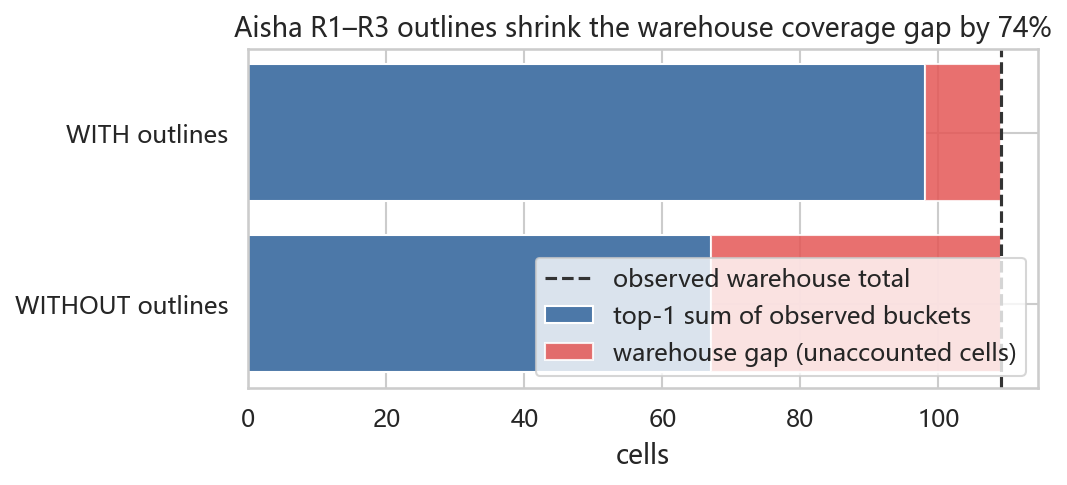
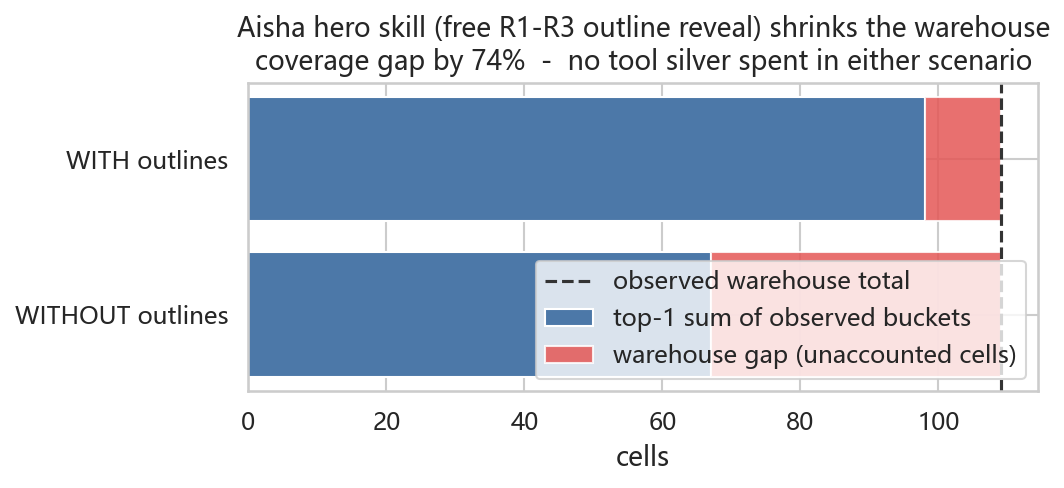
C-9: notebook 03 outline clarification + tool-price override (warehouse 55k)
Three small user-feedback follow-ups for the 2026-05-15 milestone:

1. Notebook 03 was ambiguous about what "outlines" means - the user
   initially read the chart as "scan tools help". Add a clarifying
   markdown cell and rewrite the chart title:
     "Aisha hero skill (free R1-R3 outline reveal) shrinks the warehouse
      coverage gap by 74% - no tool silver spent in either scenario"
   Re-executed via nbconvert; updated fig_outline_coverage_gap.png.

2. User-confirmed 总仓储空间 silver price is 55_000, not the rough 50k
   gold-tier placeholder. Introduce TOOL_PRICE_OVERRIDES dict for
   tool-name-specific prices and a tool_price() helper that checks
   overrides before falling back to the rarity tier. New test pins
   the 55k value and the override-vs-fallback behavior.

3. Map-fields scope cut: user confirmed that map readings like
   "9件均价 / 几件总价 / random highest-cells item / highest-quality item"
   are too ambiguous to feed into the inference engine. We won't add
   support for those - the existing QualityBucketObs fields
   (count / avg_cells / total_cells / value_sum / value_range / huge_band)
   already cover all useful map readings, just typed in by the player.

Also documents the Phase 2 ROI metric decision: value-error (silver
saved per silver spent on the tool) as primary, cell-error as
diagnostic. Matches the user's "warehouse value accuracy is the goal"
priority.

Test count: 150 -> 151 passed (+1 TOOL_PRICE_OVERRIDES test).

diff --git a/src/bidking_lab/inference/observation.py b/src/bidking_lab/inference/observation.py
@@ -131,20 +131,36 @@ STANDARD_LOADOUTS: dict[HeroMode, tuple[str, ...]] = {
     "aisha": AISHA_DEFAULT_LOADOUT,
 }
 
-# --- Battle-item silver prices by rarity, used by Phase 2 tool-ROI math ---
+# --- Battle-item silver prices, used by Phase 2 tool-ROI math ---
 #
 # User-reported live-game medians (2026-05-15). The actual price fluctuates
-# session-to-session: "有的时候是更贵有的时候是更便宜". These are point
-# estimates; ROI tables should report sensitivity to a ±30% band.
-# 总仓储空间 and similar gold-tier tools sit slightly above 35k (no clean
-# number from the user yet — treat 50k as a placeholder until probed).
+# session-to-session ("有的时候是更贵有的时候是更便宜"); ROI tables should
+# report sensitivity to a ±30% band on top of these point estimates.
 TOOL_PRICE_BY_RARITY: dict[str, int] = {
-    "white":  1_200,
-    "green":  2_500,
-    "blue":   20_000,
-    "purple": 35_000,
-    "gold":   50_000,    # placeholder for 珍品估价/珍品扫描/总仓储空间
+    "white":  1_200,    # 普品扫描 类
+    "green":  2_500,    # 良品扫描 类
+    "blue":   20_000,   # 精品估价 / 精品均格 类
+    "purple": 35_000,   # 珍品估价 类
+    "gold":   50_000,   # 珍品扫描 类 (default gold-tier fallback)
 }
+
+# Tool-name-specific overrides (use when the tool's price diverges from
+# its quality-rarity tier). Phase 2 ROI code should call ``tool_price()``
+# below rather than indexing TOOL_PRICE_BY_RARITY directly.
+TOOL_PRICE_OVERRIDES: dict[str, int] = {
+    "总仓储空间": 55_000,        # user-confirmed 2026-05-15
+}
+
+
+def tool_price(tool_name: str, rarity: str = "gold") -> int:
+    """Resolve the silver price for ``tool_name``.
+
+    Falls back to ``TOOL_PRICE_BY_RARITY[rarity]`` if no override is set
+    for this specific tool.
+    """
+    if tool_name in TOOL_PRICE_OVERRIDES:
+        return TOOL_PRICE_OVERRIDES[tool_name]
+    return TOOL_PRICE_BY_RARITY[rarity]
 
 
 @dataclass
@@ -410,6 +426,8 @@ __all__ = (
     "AISHA_DEFAULT_LOADOUT",
     "STANDARD_LOADOUTS",
     "TOOL_PRICE_BY_RARITY",
+    "TOOL_PRICE_OVERRIDES",
+    "tool_price",
     "aisha_can_observe_huge",
     "QualityBucketObs",
     "SessionObs",

diff --git a/tests/test_observation.py b/tests/test_observation.py
@@ -87,6 +87,21 @@ def test_tool_price_by_rarity_monotonic_increasing() -> None:
     assert TOOL_PRICE_BY_RARITY["purple"] == 35_000
 
 
+def test_tool_price_override_for_warehouse_total() -> None:
+    """总仓储空间 has a tool-specific 55k price (user-confirmed 2026-05-15)."""
+    from bidking_lab.inference.observation import (
+        TOOL_PRICE_BY_RARITY,
+        TOOL_PRICE_OVERRIDES,
+        tool_price,
+    )
+
+    assert TOOL_PRICE_OVERRIDES["总仓储空间"] == 55_000
+    assert tool_price("总仓储空间") == 55_000
+    # Unknown tool falls back to the rarity tier (default gold = 50k).
+    assert tool_price("珍品估价") == TOOL_PRICE_BY_RARITY["gold"]
+    assert tool_price("普品扫描", rarity="white") == 1_200
+
+
 # --- QualityBucketObs helpers ---
 
 def test_bucket_huge_methods_defaults() -> None: